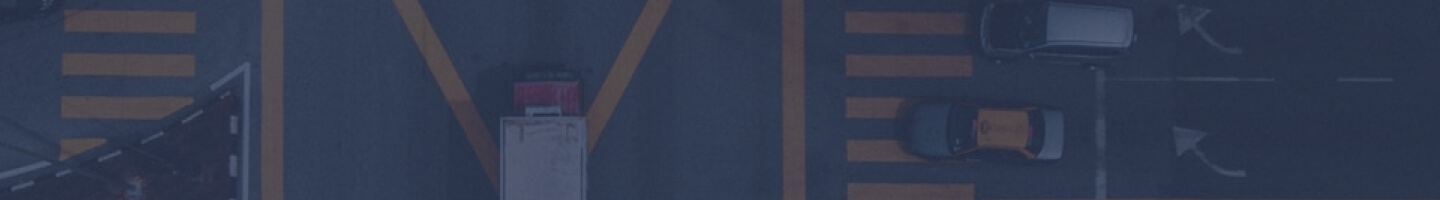
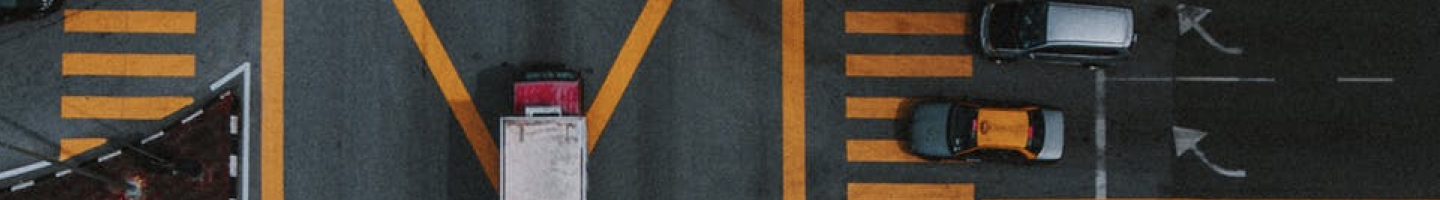
Changed

diff --git a/index.html b/index.html
@@ -15,11 +15,11 @@
     <header class="header">
       <div class="container">
         <!-- TOGGLE -->
-        <button class="burger">
+        <div class="burger">
           <div class="line-1"></div>
           <div class="line-2"></div>
           <div class="line-3"></div>
-        </button>
+        </div>
 
         <!-- LOGO -->
         <a class="logo-link" href="./index.html">
@@ -49,7 +49,7 @@
           </nav>
 
           <!-- HEADER BTN -->
-          <a class="site-btn header__btn" href="#">Get Scootin</a>
+          <a class="site-btn header__btn" href="/">Get Scootin</a>
         </div>
       </div>
     </header>
@@ -59,6 +59,7 @@
     <main class="main">
       <!-- HERO SECTION -->
       <section class="hero">
+        <div class="bg"></div>
         <div class="container">
           <div class="hero__wrapper">
             <h1>Scooter sharing made simple</h1>
@@ -69,7 +70,7 @@
                 app to locate the nearest bike, unlock it with a tap, and you’re
                 away!
               </p>
-              <a class="site-btn hero__btn" href="#">Get Scootin</a>
+              <a class="site-btn hero__btn" href="/">Get Scootin</a>
             </div>
           </div>
         </div>
@@ -145,7 +146,7 @@
                 scooter, your traveling distance, and many more things all in an
                 easy to use app.
               </p>
-              <a class="site-btn suggestion__btn" href="#">Learn More</a>
+              <a class="site-btn suggestion__btn" href="/">Learn More</a>
             </div>
             <img
               src="./images/png/easy-to-use.png"
@@ -168,7 +169,7 @@
                 hometown. We’re aiming to let our scooters loose on 23 cities
                 over the coming year.
               </p>
-              <a class="site-btn suggestion__btn" href="#">Learn More</a>
+              <a class="site-btn suggestion__btn" href="/">Learn More</a>
             </div>
             <img
               src="./images/png/coming-to-city.png"
@@ -190,7 +191,7 @@
                 inside the app. Need to pay later? No worries! You can defer
                 payment for up to a month.
               </p>
-              <a class="site-btn suggestion__btn" href="#">Learn More</a>
+              <a class="site-btn suggestion__btn" href="/">Learn More</a>
             </div>
             <img
               src="./images/png/hassle-payments.png"
@@ -277,7 +278,7 @@
         <!-- SOCIAL LINKS -->
         <ul class="footer__list">
           <li class="footer__item">
-            <a class="footer__link" href="#"
+            <a class="footer__link" href="/"
               ><svg
                 xmlns="http://www.w3.org/2000/svg"
                 width="24"
@@ -291,7 +292,7 @@
             ></a>
           </li>
           <li class="footer__item">
-            <a class="footer__link" href="#"
+            <a class="footer__link" href="/"
               ><svg
                 xmlns="http://www.w3.org/2000/svg"
                 width="24"
@@ -305,7 +306,7 @@
             ></a>
           </li>
           <li class="footer__item">
-            <a class="footer__link" href="#"
+            <a class="footer__link" href="/"
               ><svg
                 xmlns="http://www.w3.org/2000/svg"
                 width="24"

diff --git a/css/main.css b/css/main.css
@@ -506,7 +506,7 @@ h4 {
 .header {
   position: -webkit-sticky;
   position: sticky;
-  z-index: 1;
+  z-index: 5;
   top: 0;
   padding: 2.2rem 0 2.1rem;
   width: 100%;
@@ -693,21 +693,36 @@ h4 {
   background-size: cover;
   background-position: center center;
 }
+.hero .bg::after {
+  position: absolute;
+  content: " ";
+  top: 0;
+  left: 0;
+  width: 100%;
+  height: 100%;
+  z-index: 0;
+  background-color: #2F3B59;
+  opacity: 0.75;
+}
 .hero::after {
   content: url(../../images/svg/hero-path-1.svg);
   position: absolute;
+  z-index: 1;
   top: 35rem;
   left: -5rem;
 }
 .hero::before {
   content: url(../../images/svg/hero-path-2.svg);
   position: absolute;
+  z-index: 1;
   width: 447px;
   height: 140px;
   top: 35rem;
   right: 24.1rem;
 }
 .hero__wrapper {
+  position: relative;
+  z-index: 1;
   max-width: 50rem;
 }
 .hero__wrapper h1,
@@ -1165,19 +1180,36 @@ h4 {
   }
 }
 .about__intro {
+  position: relative;
   background-image: url(../../images/jpg/about-intro-bg.jpg);
   background-repeat: no-repeat;
   background-position: center;
+}
+.about__intro::after {
+  position: absolute;
+  content: " ";
+  top: 0;
+  left: 0;
+  width: 100%;
+  height: 100%;
+  z-index: 0;
+  background-color: #2f3b59;
+  opacity: 0.75;
 }
 
 .intro {
   position: relative;
   padding: 7.2rem 0;
 }
+.intro h1 {
+  position: relative;
+  z-index: 1;
+}
 .intro::before {
   content: url(../../images/svg/intro-rectangles.svg);
   position: absolute;
   right: 0;
+  z-index: 1;
 }
 @media screen and (max-width: 570px) {
   .intro {
@@ -1412,6 +1444,21 @@ h4 {
   background-repeat: no-repeat;
   background-position: center;
   margin-bottom: 11.7rem;
+}
+.careers__intro::after {
+  position: absolute;
+  content: " ";
+  top: 0;
+  left: 0;
+  width: 100%;
+  height: 100%;
+  z-index: 0;
+  background-color: #2f3b59;
+  opacity: 0.75;
+}
+.careers__intro h1 {
+  position: relative;
+  z-index: 1;
 }
 
 .careers__suggestion {

diff --git a/pages/location.html b/pages/location.html
@@ -15,11 +15,11 @@
     <header class="header">
       <div class="container">
         <!-- TOGGLE -->
-        <button class="burger">
+        <div class="burger">
           <div class="line-1"></div>
           <div class="line-2"></div>
           <div class="line-3"></div>
-        </button>
+        </div>
 
         <!-- LOGO -->
         <a class="logo-link" href="../index.html">
@@ -47,7 +47,7 @@
           </nav>
 
           <!-- HEADER BTN -->
-          <a class="site-btn header__btn" href="#">Get Scootin</a>
+          <a class="site-btn header__btn" href="/">Get Scootin</a>
         </div>
       </div>
     </header>
@@ -84,10 +84,10 @@
       <!-- COUNTRIES SECTION -->
       <section class="countries">
         <div class="container">
-          <a class="countries__btn" href="#">New York</a>
-          <a class="countries__btn" href="#">London</a>
-          <a class="countries__btn" href="#">Jakarta</a>
-          <a class="countries__btn" href="#">Yokohama</a>
+          <a class="countries__btn" href="/">New York</a>
+          <a class="countries__btn" href="/">London</a>
+          <a class="countries__btn" href="/">Jakarta</a>
+          <a class="countries__btn" href="/">Yokohama</a>
         </div>
       </section>
       <!-- /COUNTRIES SECTION -->
@@ -105,7 +105,7 @@
               free to message us by clicking the link or messaging us on social.
             </p>
           </div>
-          <a class="site-btn yourcity__btn" href="#">Message Us</a>
+          <a class="site-btn yourcity__btn" href="/">Message Us</a>
         </div>
       </section>
       <!-- /YOURCITY SECTION -->

diff --git a/sass/pages/_about.scss b/sass/pages/_about.scss
@@ -1,16 +1,37 @@
 .about__intro {
+  position: relative;
+  // background-image: url(../../images/jpg/Bitmap.jpg);
   background-image: url(../../images/jpg/about-intro-bg.jpg);
   background-repeat: no-repeat;
   background-position: center;
+
+  &::after {
+    position: absolute;
+    content: " ";
+    top: 0;
+    left: 0;
+    width: 100%;
+    height: 100%;
+    z-index: 0;
+    background-color: #2f3b59;
+    opacity: 0.75;
+  }
 }
+
 .intro {
   position: relative;
   padding: 7.2rem 0;
+
+  h1 {
+    position: relative;
+    z-index: 1;
+  }
 
   &::before {
     content: url(../../images/svg/intro-rectangles.svg);
     position: absolute;
     right: 0;
+    z-index: 1;
   }
 
   @include responsive(mobileFirst) {

diff --git a/sass/pages/_home.scss b/sass/pages/_home.scss
@@ -11,9 +11,22 @@
   background-size: cover;
   background-position: center center;
 
+  .bg::after {
+    position: absolute;
+    content: " ";
+    top: 0;
+    left: 0;
+    width: 100%;
+    height: 100%;
+    z-index: 0;
+    background-color:#2F3B59;
+    opacity: 0.75;
+  }
+
   &::after {
     content: url(../../images/svg/hero-path-1.svg);
     position: absolute;
+    z-index: 1;
     top: 35rem;
     left: -5rem;
   }
@@ -21,6 +34,7 @@
   &::before {
     content: url(../../images/svg/hero-path-2.svg);
     position: absolute;
+    z-index: 1;
     width: 447px;
     height: 140px;
     top: 35rem;
@@ -28,6 +42,8 @@
   }
 
   &__wrapper {
+    position: relative;
+    z-index: 1;
     max-width: 50rem;
 
     h1,

diff --git a/pages/about.html b/pages/about.html
@@ -23,11 +23,11 @@
     <header class="header">
       <div class="container">
         <!-- TOGGLE -->
-        <button class="burger">
+        <div class="burger">
           <div class="line-1"></div>
           <div class="line-2"></div>
           <div class="line-3"></div>
-        </button>
+        </div>
 
         <!-- LOGO -->
         <a class="logo-link" href="../index.html">
@@ -55,7 +55,7 @@
           </nav>
 
           <!-- HEADER BTN -->
-          <a class="site-btn header__btn" href="#">Get Scootin</a>
+          <a class="site-btn header__btn" href="/">Get Scootin</a>
         </div>
       </div>
     </header>

diff --git a/pages/careers.html b/pages/careers.html
@@ -15,11 +15,11 @@
     <header class="header">
       <div class="container">
         <!-- TOGGLE -->
-        <button class="burger">
+        <div class="burger">
           <div class="line-1"></div>
           <div class="line-2"></div>
           <div class="line-3"></div>
-        </button>
+        </div>
 
         <!-- LOGO -->
         <a class="logo-link" href="../index.html">

diff --git a/sass/pages/_careers.scss b/sass/pages/_careers.scss
@@ -3,6 +3,23 @@
   background-repeat: no-repeat;
   background-position: center;
   margin-bottom: 11.7rem;
+
+  &::after {
+    position: absolute;
+    content: " ";
+    top: 0;
+    left: 0;
+    width: 100%;
+    height: 100%;
+    z-index: 0;
+    background-color: #2f3b59;
+    opacity: 0.75;
+  }
+
+  h1 {
+    position: relative;
+    z-index: 1;
+  }
 }
 
 .careers__suggestion {

diff --git a/sass/layout/_header.scss b/sass/layout/_header.scss
@@ -1,6 +1,6 @@
 .header {
   position: sticky;
-  z-index: 1;
+  z-index: 5;
   top: 0;
   padding: 2.2rem 0 2.1rem;
   width: 100%;
